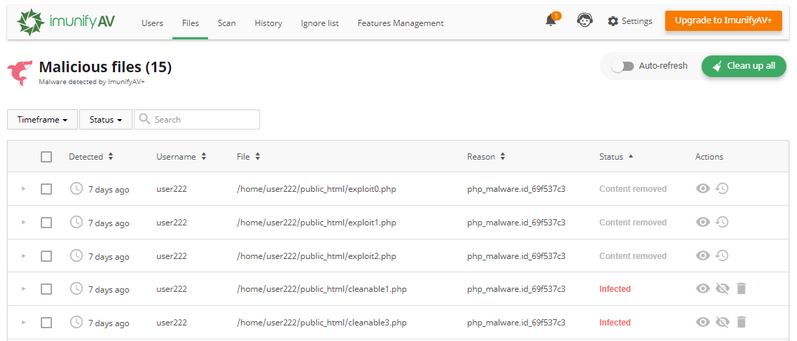
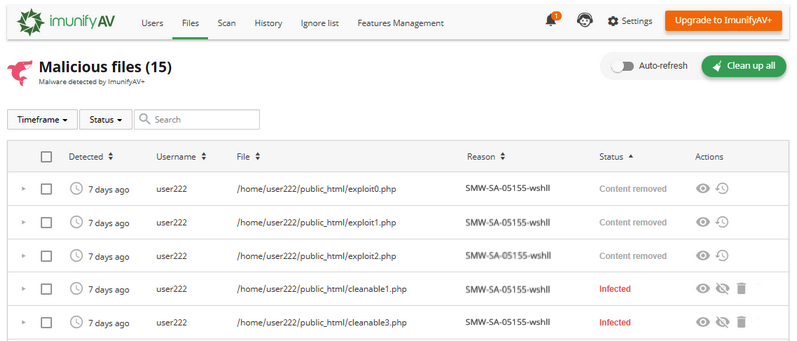
PT-1492: add ImunifyAV malware verdict

diff --git a/docs/imunifyav/README.md b/docs/imunifyav/README.md
@@ -228,7 +228,12 @@ The table has the following columns:
 * **Detected** — displays the exact time when a file was detected as malicious.
 * **User name** — displays file owner name.
 * **File** — the path where the file is located starting with root
-* **Reason** — describes the signature which was detected during the scanning process. Names in this column depend on the signature vendor.
+* **Reason** — describes the signature which was detected during the scanning process. Names in this column depend on the signature vendor. You can derive some information from the signature ID itself. `SMW-SA-05155-wshll` – in this Signature ID:
+	* The first section can be either `SMW` or `CMW`. `SMW` stands for Server Malware and `CMW` stands for Client Malware
+	* The second section of ID can be either `INJ` or `SA`. `INJ` stands for Injection (means Malware is Injected to some legitimate file) and `SA` stands for StandAlone (means File is Completely Malicious)
+	* The third section is `05155`. This is simply an identification number for the signature.
+	* The fourth section `wshll/mlw.wp/etc` explains the category and class of malware identified. Here, `wshll` stands for web shell (`mlw` stands for malware).
+	* The fifth section is `0`, which provides the version number of the signature.
 * **Status** — displays the file status:
   * **Infected** — threat was detected after scanning. If a file was not cleaned after cleanup, the info icon is displayed. Hover mouse over info icon to display the reason;
   *  **Cleaned** —  infected file is cleaned up.
@@ -480,7 +485,12 @@ The table has the following columns:
 
 * **Detected** — displays the exact time when a file was detected as malicious
 * **File** — the path where the file is located starting with root
-* **Reason** — describes the signature which was detected during the scanning process. Names in this column depend on the signature vendor
+* **Reason** — describes the signature which was detected during the scanning process. Names in this column depend on the signature vendor. You can derive some information from the signature ID itself. `SMW-SA-05155-wshll` – in this Signature ID:
+	* The first section can be either `SMW` or `CMW`. `SMW` stands for Server Malware and `CMW` stands for Client Malware
+	* The second section of ID can be either `INJ` or `SA`. `INJ` stands for Injection (means Malware is Injected to some legitimate file) and `SA` stands for StandAlone (means File is Completely Malicious)
+	* The third section is `05155`. This is simply an identification number for the signature.
+	* The fourth section `wshll/mlw.wp/etc` explains the category and class of malware identified. Here, `wshll` stands for web shell (`mlw` stands for malware).
+	* The fifth section is `0`, which provides the version number of the signature.
 * **Status** — displays the file status:
   * **Infected** — threat was detected after scanning. If a file was not cleaned after cleanup, the info icon is displayed. Hover mouse over info icon to display the reason
   * **Cleaned** — infected file is cleaned up
